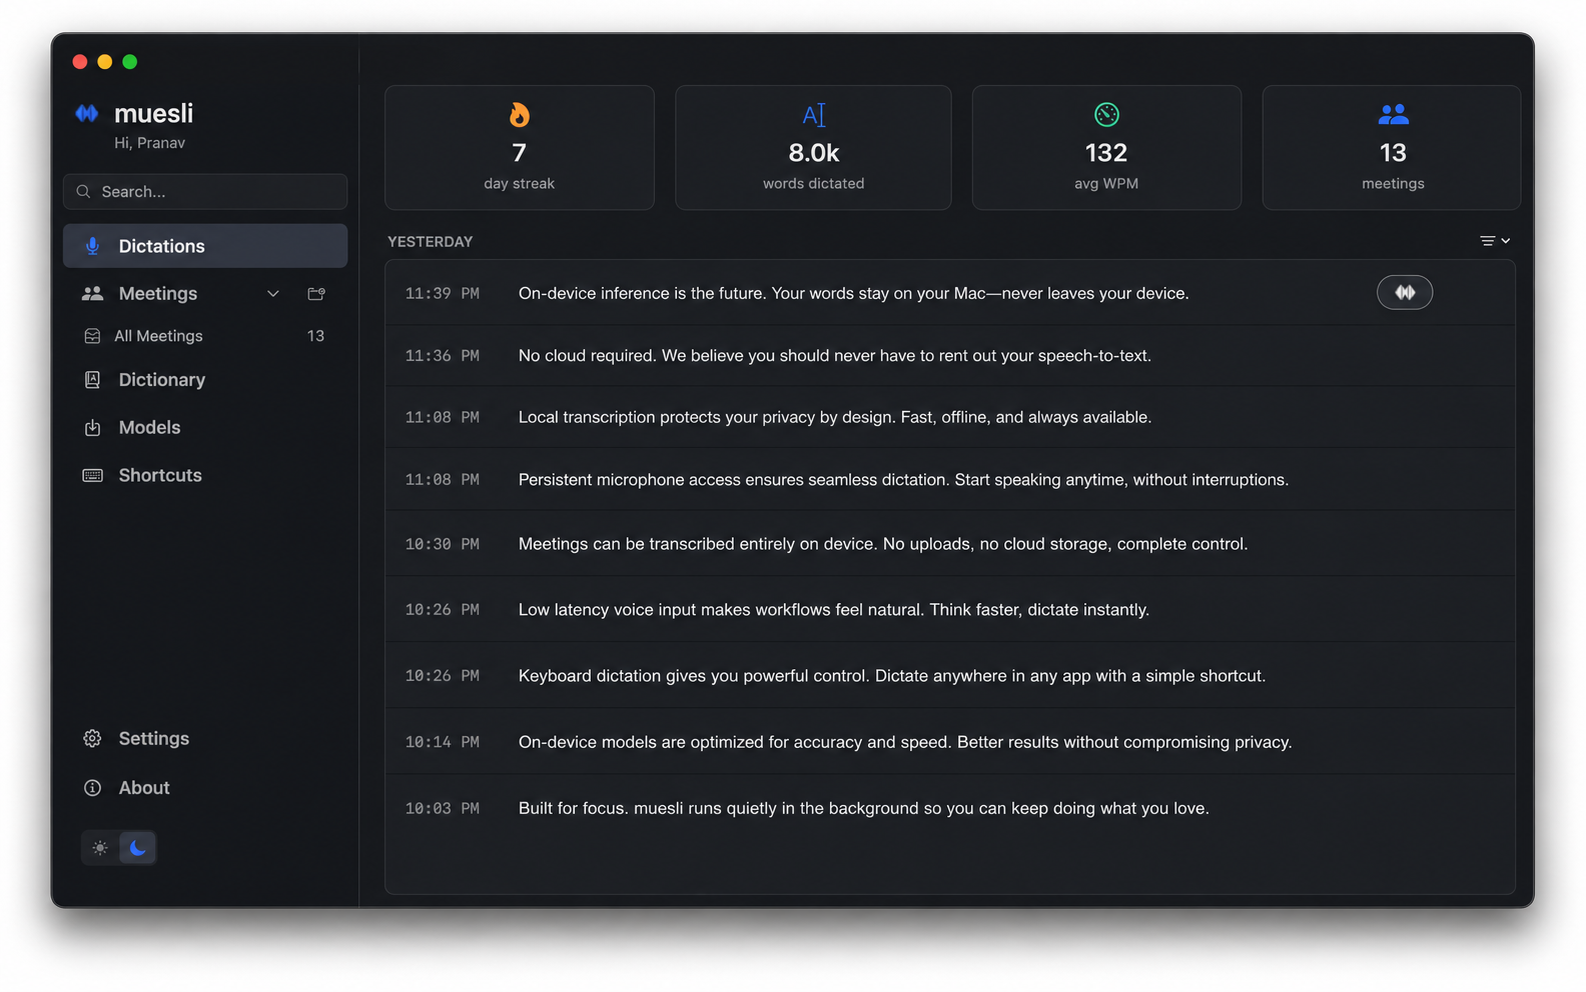
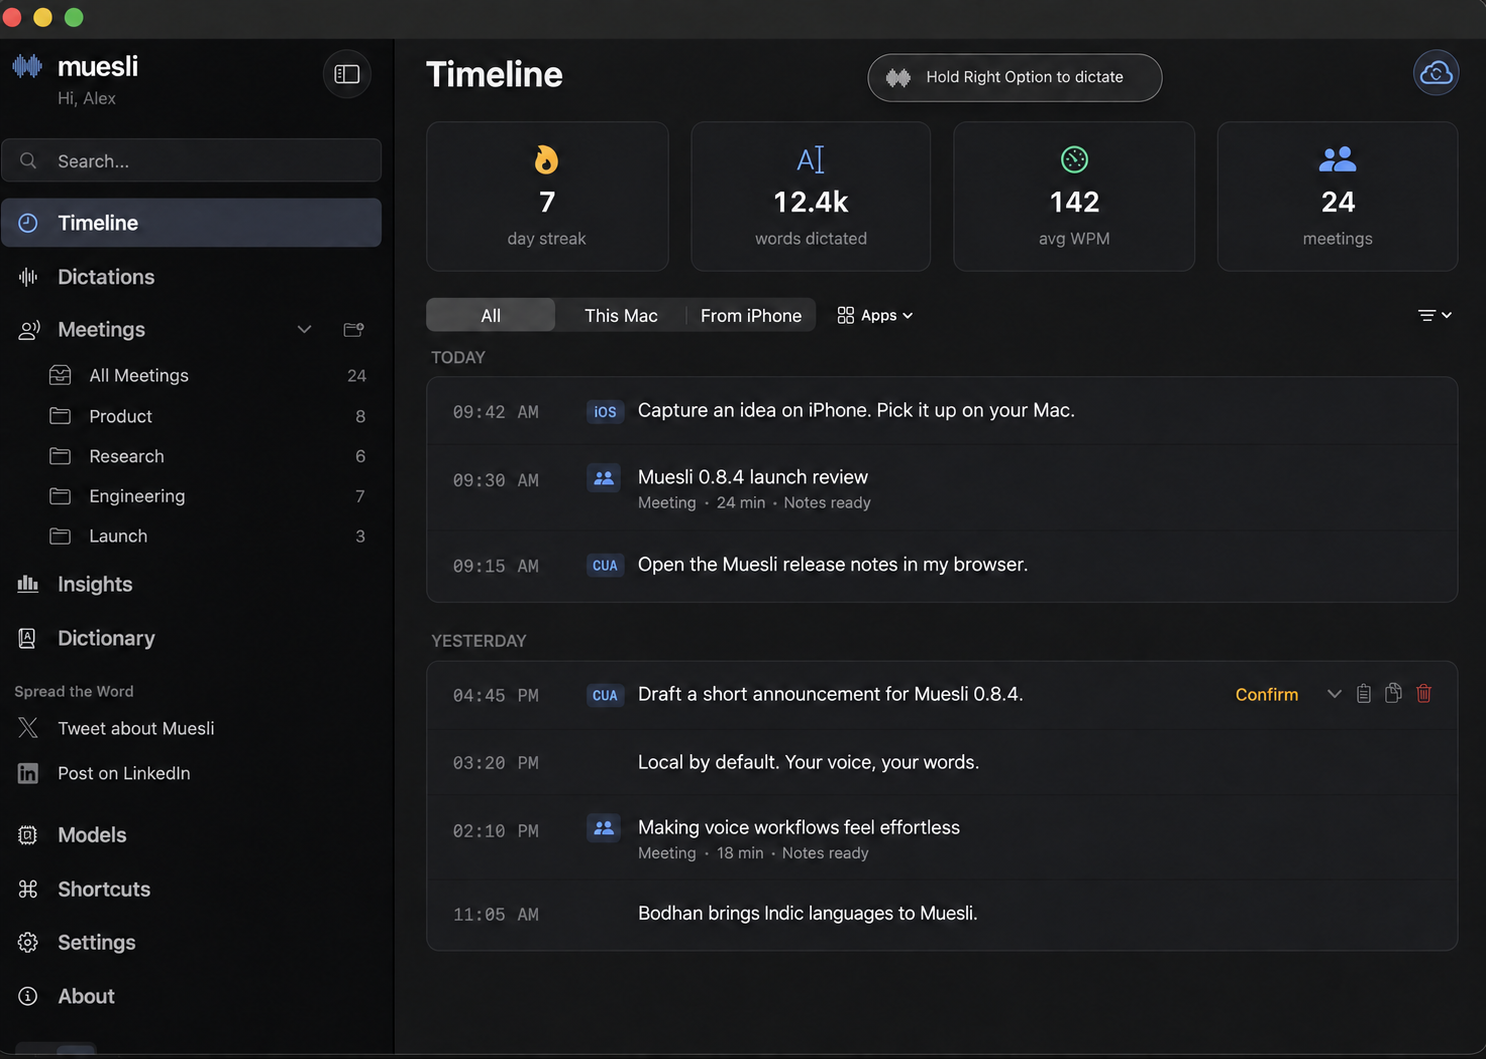
Refresh 0.8.4 README and stabilize caption bound test

diff --git a/native/MuesliNative/Tests/MuesliTests/MeetingStreamingPartialSessionTests.swift b/native/MuesliNative/Tests/MuesliTests/MeetingStreamingPartialSessionTests.swift
@@ -405,27 +405,34 @@ struct MeetingStreamingPartialSessionTests {
 
     @Test("asynchronous frozen preview text has a fixed segment bound")
     func asynchronousFrozenPreviewIsBounded() async throws {
-        let engine = ManualAsynchronousPartialEngine()
+        let texts = (0..<(MeetingStreamingPartialSession.maxFrozenSegments + 2))
+            .map { "[segment\($0)]" }
+        let engine = ManualAsynchronousPartialEngine(processTexts: texts)
         let session = MeetingStreamingPartialSession(engine: engine, label: "Others")
+        defer { session.stop() }
         let collector = PartialCollector()
         session.onPartialUpdate = { collector.record($0) }
         await session.connect()
 
-        for index in 0..<(MeetingStreamingPartialSession.maxFrozenSegments + 2) {
-            // Queued audio is processed only after the preceding restart finishes.
+        var ids: [UUID] = []
+        for text in texts {
+            let id = UUID()
+            ids.append(id)
+            // The serial audio/boundary queue owns readiness. Emit the fake result
+            // when audio is processed, then await the real finalization signal.
+            // Preview throttling and restart-entry counters are not completion gates.
             session.enqueue(samples(chunkCount: 1))
-            #expect(await waitUntil { engine.processCalls == index + 1 })
-            engine.emit("[segment\(index)]")
-            #expect(await waitUntil { collector.latest?.contains("[segment\(index)]") == true })
-            session.markSegmentBoundary(id: UUID())
-            #expect(await waitUntil { engine.restartCalls == index + 1 })
+            session.markSegmentBoundary(id: id)
+            let finalized = try #require(await session.finalizedSegmentText(id: id))
+            #expect(finalized == text)
         }
 
-        let latest = try #require(collector.latest)
-        #expect(!latest.contains("[segment0]"))
-        #expect(!latest.contains("[segment1]"))
-        #expect(latest.contains("[segment2]"))
-        #expect(latest.contains("[segment13]"))
+        #expect(engine.processCalls == texts.count)
+        for (index, id) in ids.enumerated() {
+            #expect(session.pendingSegmentText(id: id) == (index < 2 ? nil : texts[index]))
+        }
+        let expectedPreview = texts.dropFirst(2).joined(separator: " ")
+        #expect(await waitUntil { collector.latest == expectedPreview })
     }
 
     @Test("overlapping boundaries serialize restarts and retain the newest callbacks")
@@ -922,12 +929,14 @@ private final class ManualAsynchronousPartialEngine: MeetingStreamingPartialEngi
     private let blocksFinish: Bool
     private let finalText: String?
     private let failsFinish: Bool
+    private let processTexts: [String]
 
-    init(blocksRestart: Bool = false, blocksFinish: Bool = false, finalText: String? = nil, failsFinish: Bool = false) {
+    init(blocksRestart: Bool = false, blocksFinish: Bool = false, finalText: String? = nil, failsFinish: Bool = false, processTexts: [String] = []) {
         self.blocksRestart = blocksRestart
         self.blocksFinish = blocksFinish
         self.finalText = finalText
         self.failsFinish = failsFinish
+        self.processTexts = processTexts
     }
 
     var isFinishing: Bool { state.withLock { $0.isFinishing } }
@@ -945,7 +954,12 @@ private final class ManualAsynchronousPartialEngine: MeetingStreamingPartialEngi
     }
 
     func process(samples: [Float]) async throws {
-        state.withLock { $0.processCalls += 1 }
+        let index = state.withLock { s in
+            let index = s.processCalls
+            s.processCalls += 1
+            return index
+        }
+        if processTexts.indices.contains(index) { emit(processTexts[index]) }
     }
 
     func restart(

diff --git a/README.md b/README.md
@@ -24,16 +24,33 @@
 
 ## What is Muesli?
 
-Muesli is a **lightweight native macOS app** that combines **WisprFlow-style dictation** and **Granola-style meeting transcription** in one tool. Dictation and meeting transcription run locally on Apple Silicon by default. Audio leaves your device only when you explicitly select an optional hosted dictation provider such as OpenAI or OpenRouter; cloud-backed cleanup and meeting-summary providers can also receive the text you choose to send them.
+Muesli is a **lightweight native macOS app** that combines **WisprFlow-style dictation** and **Granola-style meeting transcription** in one tool. Dictation and meeting transcription run locally on Apple Silicon by default. Optional hosted dictation sends audio to OpenAI or through OpenRouter to your selected model. Hosted cleanup, Quill, summaries, and Computer Use send the input needed for those features when selected. iCloud sync transfers text and sync metadata, never audio.
 
 <p align="center">
-  <img src="assets/muesli-github-ss.png" alt="Muesli interface showing dictations and meeting history" width="900" />
+  <img src="assets/muesli-github-ss.png" alt="Muesli 0.8.4 Timeline with illustrative dictation, meeting, iPhone, and Computer Use entries" width="900" />
 </p>
+
+<p align="center"><sub>Illustrative entries and usage statistics. Personal content has been replaced.</sub></p>
+
+### New in 0.8.4
+
+| Feature | What you can do |
+|---|---|
+| **Quill** | Ask a question, rewrite selected text, or create text at the cursor with your voice. |
+| **Bodhan for Indic languages** | Dictate across Indic languages and English, including code-switching. |
+| **Live meeting transcripts** | Use Apple Speech on macOS 26+. Live transcription is off by default. |
+| **Re-summarize meetings** | Choose a different summary model for a saved meeting. |
+| **BYOK dictation** | Use OpenAI or OpenRouter when you want hosted transcription. Local by default. |
+
+This release also adds S1-mini English cleanup, Apple Shortcuts and Siri actions, clearer macOS calendar management, and iCloud reconnection recovery. [Read the full 0.8.4 release notes](docs/release-notes/0.8.4.md).
 
 ### Dictation
 Hold your hotkey (or double-tap for hands-free mode) → speak → release → transcribed text is pasted at your cursor. **~0.13 second latency** via Parakeet TDT on the Apple Neural Engine.
 
 By default, dictation uses an on-device model. You can instead opt into OpenAI Speech-to-Text with your own API key, which streams microphone audio directly to OpenAI over a Realtime WebSocket, or connect OpenRouter and explicitly choose a transcription model. OpenRouter dictation sends the completed recording through OpenRouter to the selected upstream model. Muesli retains the local recording only long enough to fall back to a compatible installed on-device model if the hosted request fails; streaming-only models are excluded from fallback.
+
+### Quill
+Select text and speak an instruction to rewrite it, or ask a question and generate text at the cursor with no selection. Choose your model in **Models → Quill**. If a required local model is missing or a selected account is signed out, Muesli prompts you to download the model or sign in before use.
 
 ### Meeting Transcription
 Start a meeting recording → Muesli captures your mic (You) and system audio (Others) simultaneously → VAD-driven chunked transcription happens during the meeting at natural speech boundaries → speaker diarization identifies individual remote speakers (Speaker 1, Speaker 2, etc.) → when you stop, the transcript is ready in seconds, not minutes. Generate structured meeting notes via OpenAI, free OpenRouter models, your ChatGPT Plus/Pro subscription, or local Ollama models.
@@ -49,7 +66,7 @@ Live transcription is off by default. Choose Apple Speech, or download Parakeet 
 - **Native macOS architecture** — Swift, AppKit, and SwiftUI app code with in-process CoreML/ANE, Metal, and LiteRT-LM inference.
 - **Multiple ASR providers** — Apple Speech (system-managed on macOS 26+), Parakeet TDT and Nemotron 3.5 (Neural Engine), Cohere Transcribe 2B (mixed precision CoreML), multilingual Whisper Tiny/Small/Large Turbo (CoreML/ANE via WhisperKit), Qwen3 ASR, SenseVoice Small, Bodhan Core/Flex for Indic and English speech, and experimental Gemma 4 E2B.
 - **Hold-to-talk & hands-free** — Hold hotkey for quick dictation, or double-tap for sustained recording.
-- **Quill voice rewriting** — Highlight text to rewrite it from a spoken instruction, or generate new text at the cursor with no selection. Quill supports local and hosted models, hands-free activation, and an independent toggle for its activation and release sounds.
+- **Quill voice writing and answers** — Highlight text to rewrite it from a spoken instruction, or generate new text at the cursor with no selection. Quill supports local and hosted models, hands-free activation, and an independent toggle for its activation and release sounds.
 - **Apple Shortcuts & Siri** — Six preconfigured actions out of the box: Start/Stop Dictation (latched hands-free mode, same as double-tapping the hotkey), Start/Stop Meeting Recording, Get Last Dictation, and Get Last Meeting Notes. Trigger them from Spotlight, Siri ("Start a meeting recording in Muesli"), keyboard shortcuts, or Shortcuts automations — e.g. auto-record when a calendar event starts, or pipe your last dictation into Notes, Messages, or Files.
 - **Meeting recording** — Captures mic + system audio (including Bluetooth/AirPods) with a CoreAudio process tap by default and ScreenCaptureKit fallback. System audio from Zoom, Teams, and other call clients stays on the Others side of the transcript.
 - **Live meeting transcript** — Choose Nemotron 3.5 or system-managed Apple Speech (macOS 26+) for multilingual live-and-final transcripts, or Parakeet Realtime EOU for an English live preview paired with a separate final meeting model.
@@ -63,9 +80,9 @@ Live transcription is off by default. Choose Apple Speech, or download Parakeet 
 - **Meeting templates** — Built-in and custom templates for meeting notes. Choose a template before or after recording — re-summarize any meeting with a different template.
 - **Dismiss calendar events** — Hide irrelevant events from Coming Up, status bar, and menu bar. Dismissed events are pruned automatically.
 - **iCloud Text Sync & iPhone Bridge** — Privately sync dictation text, meeting transcripts, notes, summaries, and manual notes with Muesli for iPhone through iCloud. Audio recordings are never synced.
-- **Optional transcript cleanup** — Refine dictated text locally with **[S1-mini by Superwhisper](https://huggingface.co/superwhisper/s1-mini-GGUF)**, Muesli's GGUF cleanup models, or on-device Gemma 4 E2B; hosted providers are also available when preferred.
+- **Optional transcript cleanup** — Refine dictated text locally with **[S1-mini by Superwhisper](https://huggingface.co/superwhisper/s1-mini-GGUF)**, Muesli's GGUF cleanup models, or on-device Gemma 4 E2B; hosted providers are also available when preferred. S1-mini is for English dictation. Missing local cleanup models prompt a download and open **Models → Cleanup**.
 - **Filler word removal** — Automatically strips "uh", "um", "er", "hmm" and verbal disfluencies.
-- **AI meeting notes** — BYOK with OpenAI or OpenRouter, sign in with your ChatGPT Plus/Pro subscription (no API key needed), or use local Ollama models. Auto-generated meeting titles. Re-summarize any meeting.
+- **AI meeting notes** — BYOK with OpenAI or OpenRouter, sign in with your ChatGPT Plus/Pro subscription (no API key needed), or use local Ollama models. Auto-generated meeting titles. Re-summarize any saved meeting with a different summary model.
 - **ChatGPT OAuth** — Sign in with your existing ChatGPT subscription via browser-based OAuth (PKCE). Tokens stored in the app support directory with owner-only file permissions.
 - **Computer Use planner** — Optional voice-driven planner that can execute local app and browser actions from dictated commands with configurable model and timeout settings.
 - **Post-meeting hooks** — Run a user-supplied executable after completed meetings. Hooks receive a JSON payload on stdin and log results in the app support directory.
@@ -104,6 +121,9 @@ Current Homebrew also resolves `brew install muesli` to the official cask; the
 git clone https://github.com/Muesli-HQ/muesli.git
 cd muesli
 
+# Build the bundled echo-cancellation runtime once
+./scripts/build_localvqe.sh
+
 # Build and install to /Applications
 ./scripts/build_native_app.sh
 
@@ -116,7 +136,7 @@ contributors can use the unsigned dev build for local testing; it installs
 `MuesliDev.app` with a separate bundle ID and app data directory.
 See [CONTRIBUTING.md](CONTRIBUTING.md) for the full local development workflow.
 
-The selected transcription model downloads on demand (~450 MB for the recommended Parakeet v3).
+The selected transcription model downloads on demand (~565 MB for the default English Parakeet Unified; ~450 MB for multilingual Parakeet v3).
 The app bundle also includes the arm64 LiteRT-LM runtime (~61 MB) for experimental
 Gemma 4 support; its ~2.6 GB model weights download only when Gemma is selected.
 
@@ -331,7 +351,8 @@ Important meeting fields:
 | Model | Backend | Runtime | Size | Languages | Latency |
 |-------|---------|---------|------|-----------|---------|
 | **Apple Speech** | SpeechAnalyzer / SpeechTranscriber | System-managed | No Muesli model download | System-supported locales | Dictation, live + final meetings on macOS 26+ |
-| **Parakeet v3** (recommended) | FluidAudio | CoreML / Neural Engine | ~450 MB | 25 languages | ~0.13s |
+| **Parakeet Unified** (default for English) | FluidAudio | CoreML / Neural Engine | ~565 MB | English | Offline batch |
+| **Parakeet v3** (multilingual) | FluidAudio | CoreML / Neural Engine | ~450 MB | 25 languages | ~0.13s |
 | Parakeet v2 | FluidAudio | CoreML / Neural Engine | ~450 MB | English only | ~0.13s |
 | Parakeet Realtime EOU | FluidAudio | CoreML / Neural Engine | ~430 MB | English only | Live preview |
 | **Cohere Transcribe 2B** | CoreML | FP16 encoder + INT8 decoder | ~3.8 GB | 14 languages | ~1s |
@@ -384,8 +405,9 @@ cannot load.
 
 Source/dev builds need the LocalVQE runtime built once with
 `./scripts/build_localvqe.sh` (the model is committed; the dylibs under
-`native/MuesliNative/LocalVQE/lib/` are not). Without that step, packaging
-warns and the app falls back to DTLN. See `CONTRIBUTING.md`.
+`native/MuesliNative/LocalVQE/lib/` are not). Signed packaging refuses to proceed without the complete runtime, including
+`liblocalvqe` and its required `libggml` libraries. A warm SwiftPM cache does not
+supply these gitignored libraries. See [CONTRIBUTING.md](CONTRIBUTING.md).
 
 Models download on demand from HuggingFace. Manage them from the **Models** tab in the dashboard.
 
@@ -425,7 +447,7 @@ Muesli uses macOS Calendar through EventKit. A direct Google Calendar sign-in is
 | App | Swift, AppKit, SwiftUI |
 | Primary ASR | [FluidAudio](https://github.com/FluidInference/FluidAudio) and FluidInference models (Parakeet TDT, Nemotron 3.5, SenseVoice Small, and Qwen3 ASR on CoreML/ANE) |
 | Cohere ASR | [Cohere Transcribe](https://huggingface.co/CohereLabs/cohere-transcribe-03-2026) (FP16 encoder + INT8 decoder on CoreML) |
-| Bodhan ASR | [Bodhan AI](https://huggingface.co/bodhan-ai) Core/Flex with a CoreML encoder and CoreML or native [MLX Swift](https://github.com/ml-explore/mlx-swift) decoder |
+| Bodhan ASR | [Bodhan AI](https://huggingface.co/bodhan-ai) Core/Flex with a CoreML encoder and native [MLX Swift](https://github.com/ml-explore/mlx-swift) decoder |
 | Gemma ASR / cleanup | [Google LiteRT-LM](https://github.com/google-ai-edge/LiteRT-LM) with Gemma 4 E2B (Metal GPU decoder + CPU audio encoder) |
 | Whisper ASR | [WhisperKit](https://github.com/argmaxinc/WhisperKit) (CoreML/ANE) |
 | Voice activity | Silero VAD via FluidAudio (streaming, event-driven) |
@@ -450,12 +472,12 @@ Contributions welcome! To get started:
 ```bash
 git clone https://github.com/Muesli-HQ/muesli.git
 cd muesli
-swift build --package-path native/MuesliNative -c release
-swift test --package-path native/MuesliNative
+swift build --package-path native/MuesliNative --scratch-path "$HOME/Library/Caches/muesli-spm/contributor" -c release
+swift test --package-path native/MuesliNative --scratch-path "$HOME/Library/Caches/muesli-spm/contributor"
 ./scripts/test_packaged_cli.sh
 ```
 
-1,148 tests covering model configuration, custom word and phrase matching, filler removal, transcription routing, data persistence, CLI contract/path-resolution logic, speaker diarization alignment, token consolidation, camera-based meeting detection, CoreAudio system capture, ChatGPT OAuth logic, Ollama summaries, update-flow policy, launch at login, paste/clipboard safety, meeting export, meeting navigation, upcoming-meeting window behavior, and calendar meeting URL extraction.
+The test suite covers model configuration, custom word and phrase matching, filler removal, transcription routing, data persistence, CLI contract/path-resolution logic, speaker diarization alignment, token consolidation, camera-based meeting detection, CoreAudio system capture, ChatGPT OAuth logic, Ollama summaries, update-flow policy, launch at login, paste/clipboard safety, meeting export, meeting navigation, upcoming-meeting window behavior, and calendar meeting URL extraction.
 
 Current test scope:
 
